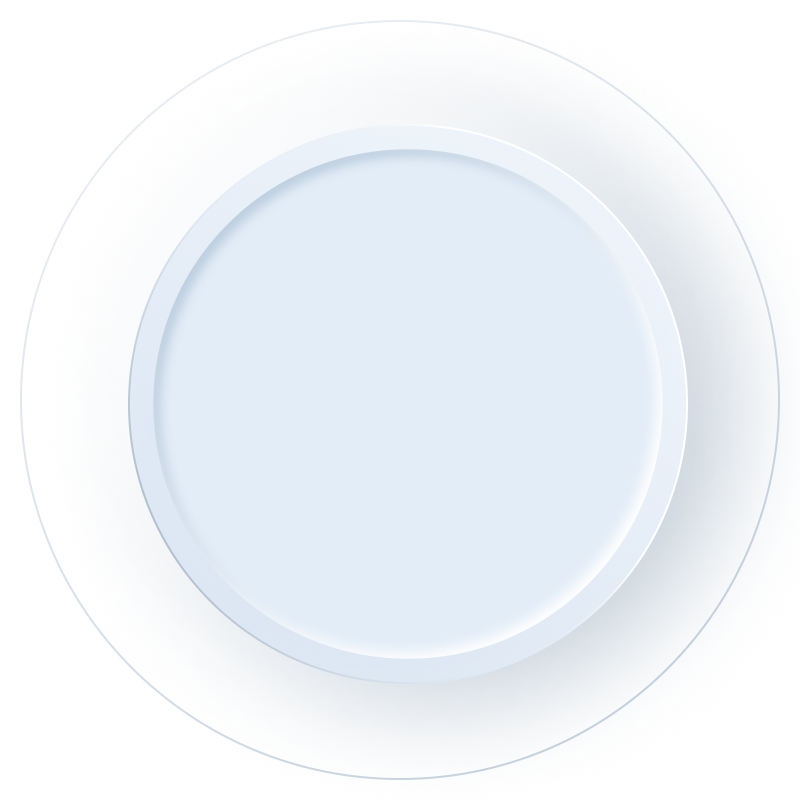
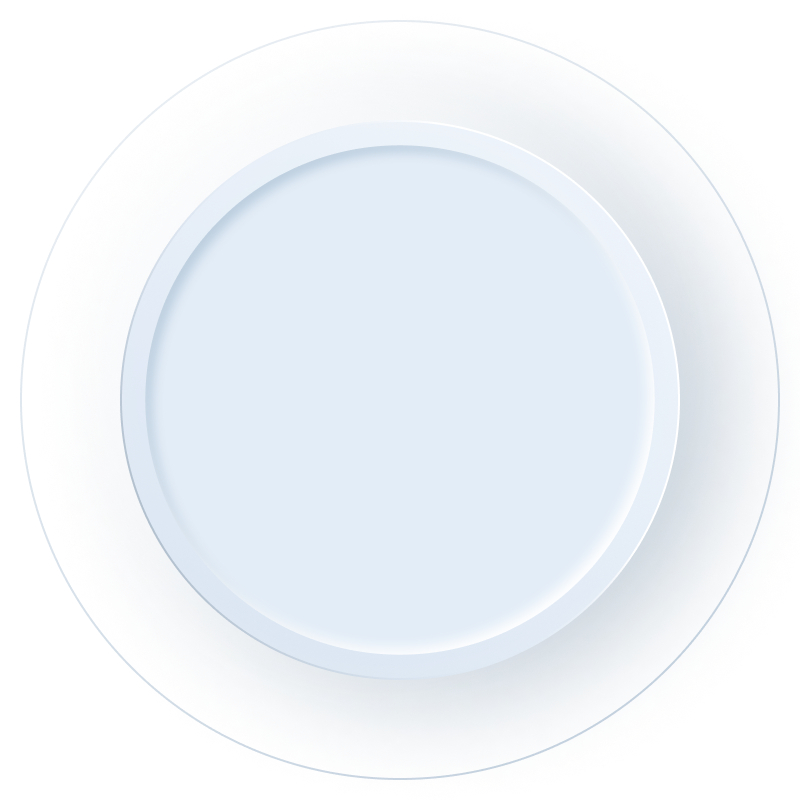
Circular timing with graphics.

diff --git a/src/components/CircularTimer.tsx b/src/components/CircularTimer.tsx
@@ -66,8 +66,8 @@ const CircularTimer: React.ForwardRefRenderFunction<CircularTimerRef, CircularTi
 
     return (
         <View style={styles.container}>
-            <View style={styles.timerCircleContainer}>
-                <ImageBackground source={image} resizeMode="cover" style={styles.image}>
+            <ImageBackground source={image} resizeMode="cover" style={styles.imagaContainer}>
+                <View style={styles.timerCircleContainer}>
                     <Svg height={size} width={size} viewBox={`0 0 ${size} ${size}`}>
                         <Circle
                             cx={size / 2}
@@ -87,8 +87,8 @@ const CircularTimer: React.ForwardRefRenderFunction<CircularTimerRef, CircularTi
                     <View style={styles.textContainer}>
                         <Text style={GlobalStyles.timerText}>{formatTime(currentTime!)}</Text>
                     </View>
-                </ImageBackground>
-            </View>
+                </View>
+            </ImageBackground>
 
             <View style={styles.startButtonContainer}>
                 {/* StartButton to control the timer */}
@@ -101,30 +101,42 @@ const CircularTimer: React.ForwardRefRenderFunction<CircularTimerRef, CircularTi
 const styles = StyleSheet.create({
     container: {
         flex: 1,
+
         justifyContent: 'center',
         alignItems: 'center',
-        backgroundColor: 'transparent',
+        // backgroundColor: 'blue',
+    },
+    imagaContainer: {
+        // flex: 1,
+        alignItems: 'center',
+        // position: 'relative',
+        justifyContent: 'center',
+        alignContent: 'center',
+        // backgroundColor: 'purple',
+        // padding: 20,
+        width: 400,
+        height: 400,
     },
     timerCircleContainer: {
         flex: 1,
         justifyContent: 'center',
         alignItems: 'center',
         // backgroundColor: 'pink',
+        position: 'absolute',
     },
     textContainer: {
         position: 'absolute',
-        justifyContent: 'center',
+        // justifyContent: 'center',
         alignItems: 'center',
-        width: '100%',
-        // height: '100%',
+        transform: [{ translateY: -10 }],
     },
     startButtonContainer: {
-        justifyContent: 'center',
-        alignItems: 'center',
-    },
-    image: {
-        flex: 1,
-        justifyContent: 'center',
+        marginTop: 100,
+        // marginBottom: 2,
+        marginVertical: 20,
+        // justifyContent: 'center',
+        // alignItems: 'center',
+        // backgroundColor: 'yellow',
     },
 });
 

diff --git a/src/screens/HomeScreen.tsx b/src/screens/HomeScreen.tsx
@@ -1,8 +1,6 @@
 import { View, Text, StyleSheet } from 'react-native';
 import CustomLinearGradient from '../components/CustomLinearGradient';
 import IconButton from '../components/IconButton';
-
-import Icon from '../components/Icon';
 import CircularTimer from '../components/CircularTimer'; // Import the CircularTimer component
 import { GlobalStyles } from '../styles/GlobalStyles';
 import React from 'react';
@@ -13,10 +11,10 @@ const HomeScreen = () => {
             <View style={styles.container}>
                 {/* Circular Timer */}
                 <CircularTimer
-                    size={250}
-                    strokeWidth={10}
-                    time={60} // Duration of the countdown in seconds (20 seconds)
-                    color="#EA0008"
+                    size={252}
+                    strokeWidth={8}
+                    time={1200} // Duration of the countdown in seconds (20 seconds)
+                    color="rgba(234,0,8,.65)"
                     onTimerDone={() => console.log('Timer done!')}
                 />
 
@@ -26,13 +24,13 @@ const HomeScreen = () => {
 
                 {/* Other UI Components */}
                 <IconButton
-                    svgIconName="01_run"
+                    svgIconName="26_Menu"
                     width={64}
                     height={64}
                     onPress={() => console.log('Button pressed')}
                 />
 
-                <Icon iconName="26_Menu" size={32} color="red" />
+                {/* <Icon iconName="26_Menu" size={32} color="red" /> */}
                 <Text style={[GlobalStyles.text, styles.appName]}>okyru</Text>
             </View>
         </CustomLinearGradient>
@@ -45,12 +43,15 @@ const styles = StyleSheet.create({
     },
     container: {
         flex: 1, // Ensure container takes up the whole gradient space
-        alignItems: 'center', // Center items horizontally
-        justifyContent: 'center', // Center items vertically
-        // padding: 20, // Add padding around the content
+        justifyContent: 'center', // Center the content
+        alignItems: 'center', // Center the content
     },
     appName: {
         marginVertical: 20, // Add vertical space around the app name
+        alignSelf: 'auto', // Center the app name
+    },
+    buttonStyle: {
+        alignSelf: 'center',
     },
     // Add any other styles you need
 });

diff --git a/src/components/StartButton.tsx b/src/components/StartButton.tsx
@@ -50,9 +50,9 @@ const StartButton: React.FC<StartButtonProps> = ({ onPress, isRunning }) => {
         if (buttonState === 'hover') {
             return require('../assets/images/buttons/start_button_hover.png');
         } else if (buttonState === 'press') {
-            return require('../assets/images/buttons/start_button_active.png');
-        } else {
             return require('../assets/images/buttons/start_button_inactive.png');
+        } else {
+            return require('../assets/images/buttons/start_button_active.png');
         }
     };
 
@@ -72,13 +72,13 @@ const StartButton: React.FC<StartButtonProps> = ({ onPress, isRunning }) => {
 
 const styles = StyleSheet.create({
     buttonContainer: {
-        flexDirection: 'row',
+        // flexDirection: 'row',
         alignItems: 'center',
-        justifyContent: 'center',
+        // justifyContent: 'center',
     },
     buttonImage: {
-        width: 200,
-        height: 200,
+        width: 128,
+        height: 128,
     },
 });
 

diff --git a/src/components/IconButton.tsx b/src/components/IconButton.tsx
@@ -82,9 +82,9 @@ const styles = StyleSheet.create({
     },
 
     buttonContainer: {
-        flexDirection: 'row',
-        alignItems: 'center',
-        justifyContent: 'center',
+        // flexDirection: 'row',
+        // alignItems: 'center',
+        // justifyContent: 'center',
     },
     buttonImage: {
         // width and height are now set dynamically in the component

diff --git a/src/styles/GlobalStyles.tsx b/src/styles/GlobalStyles.tsx
@@ -43,7 +43,7 @@ export const GlobalStyles = StyleSheet.create({
     },
     timerText: {
         fontFamily: 'Nirmala',
-        fontSize: 32,
+        fontSize: 64,
         color: Colors.text,
     },
     headerText: {
